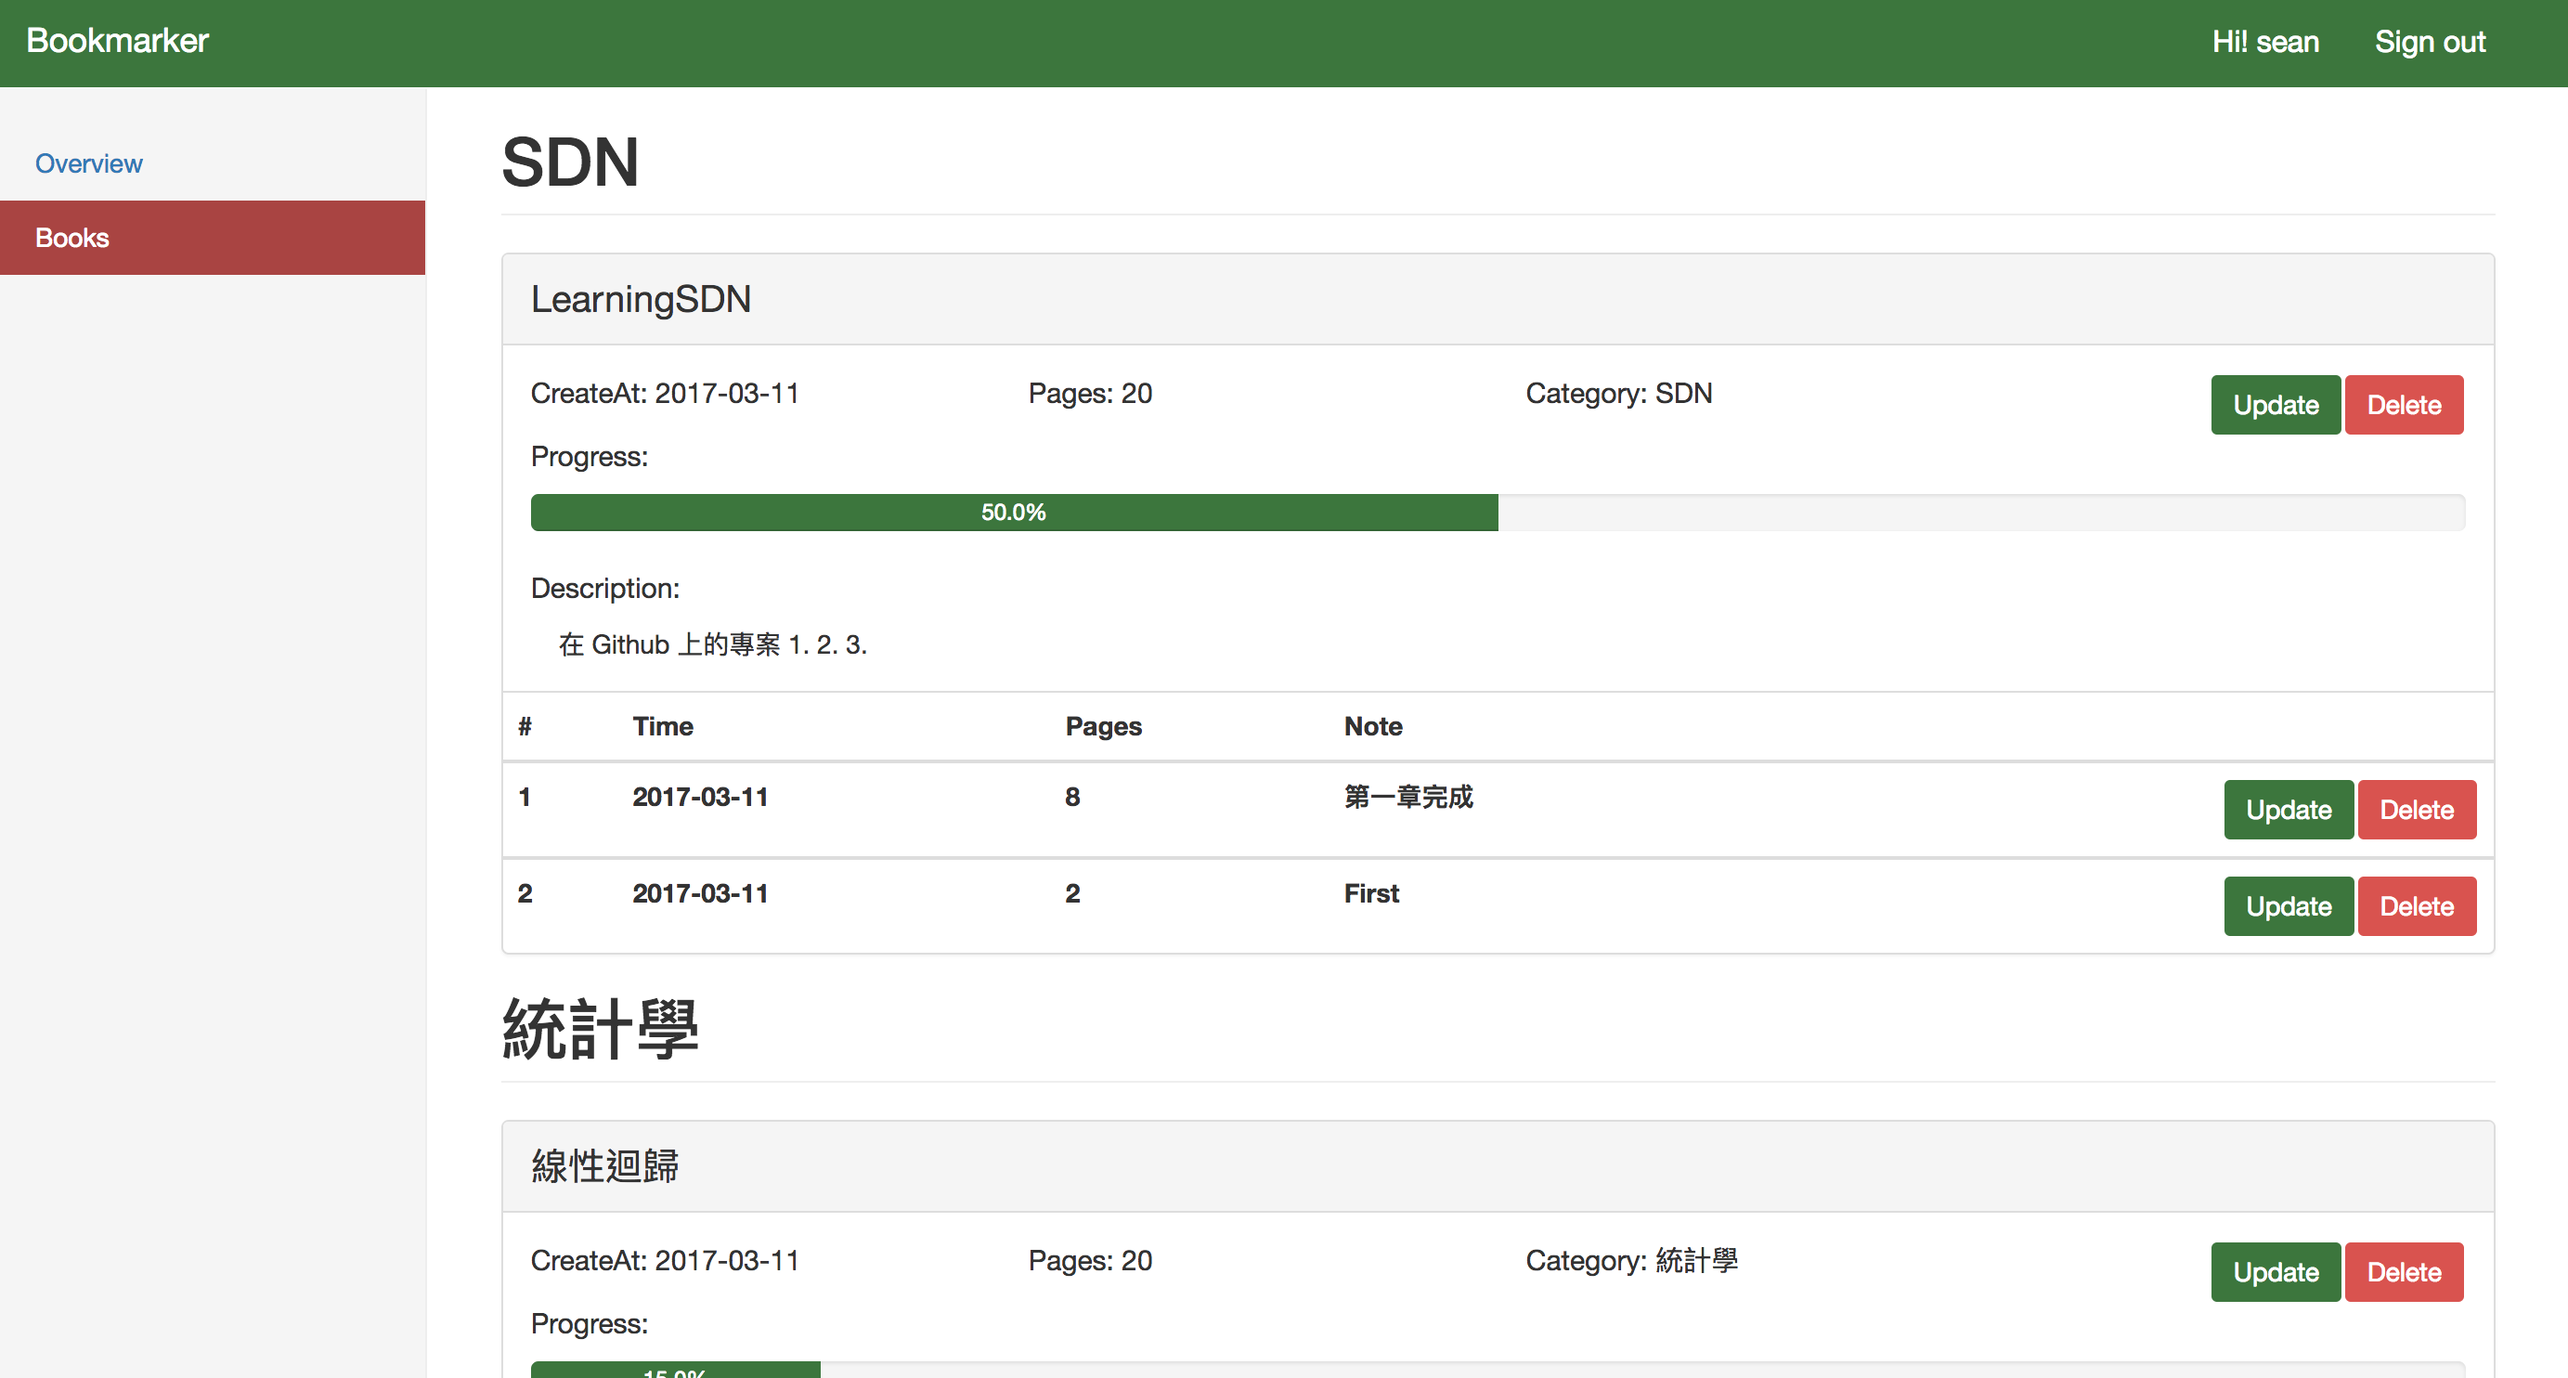
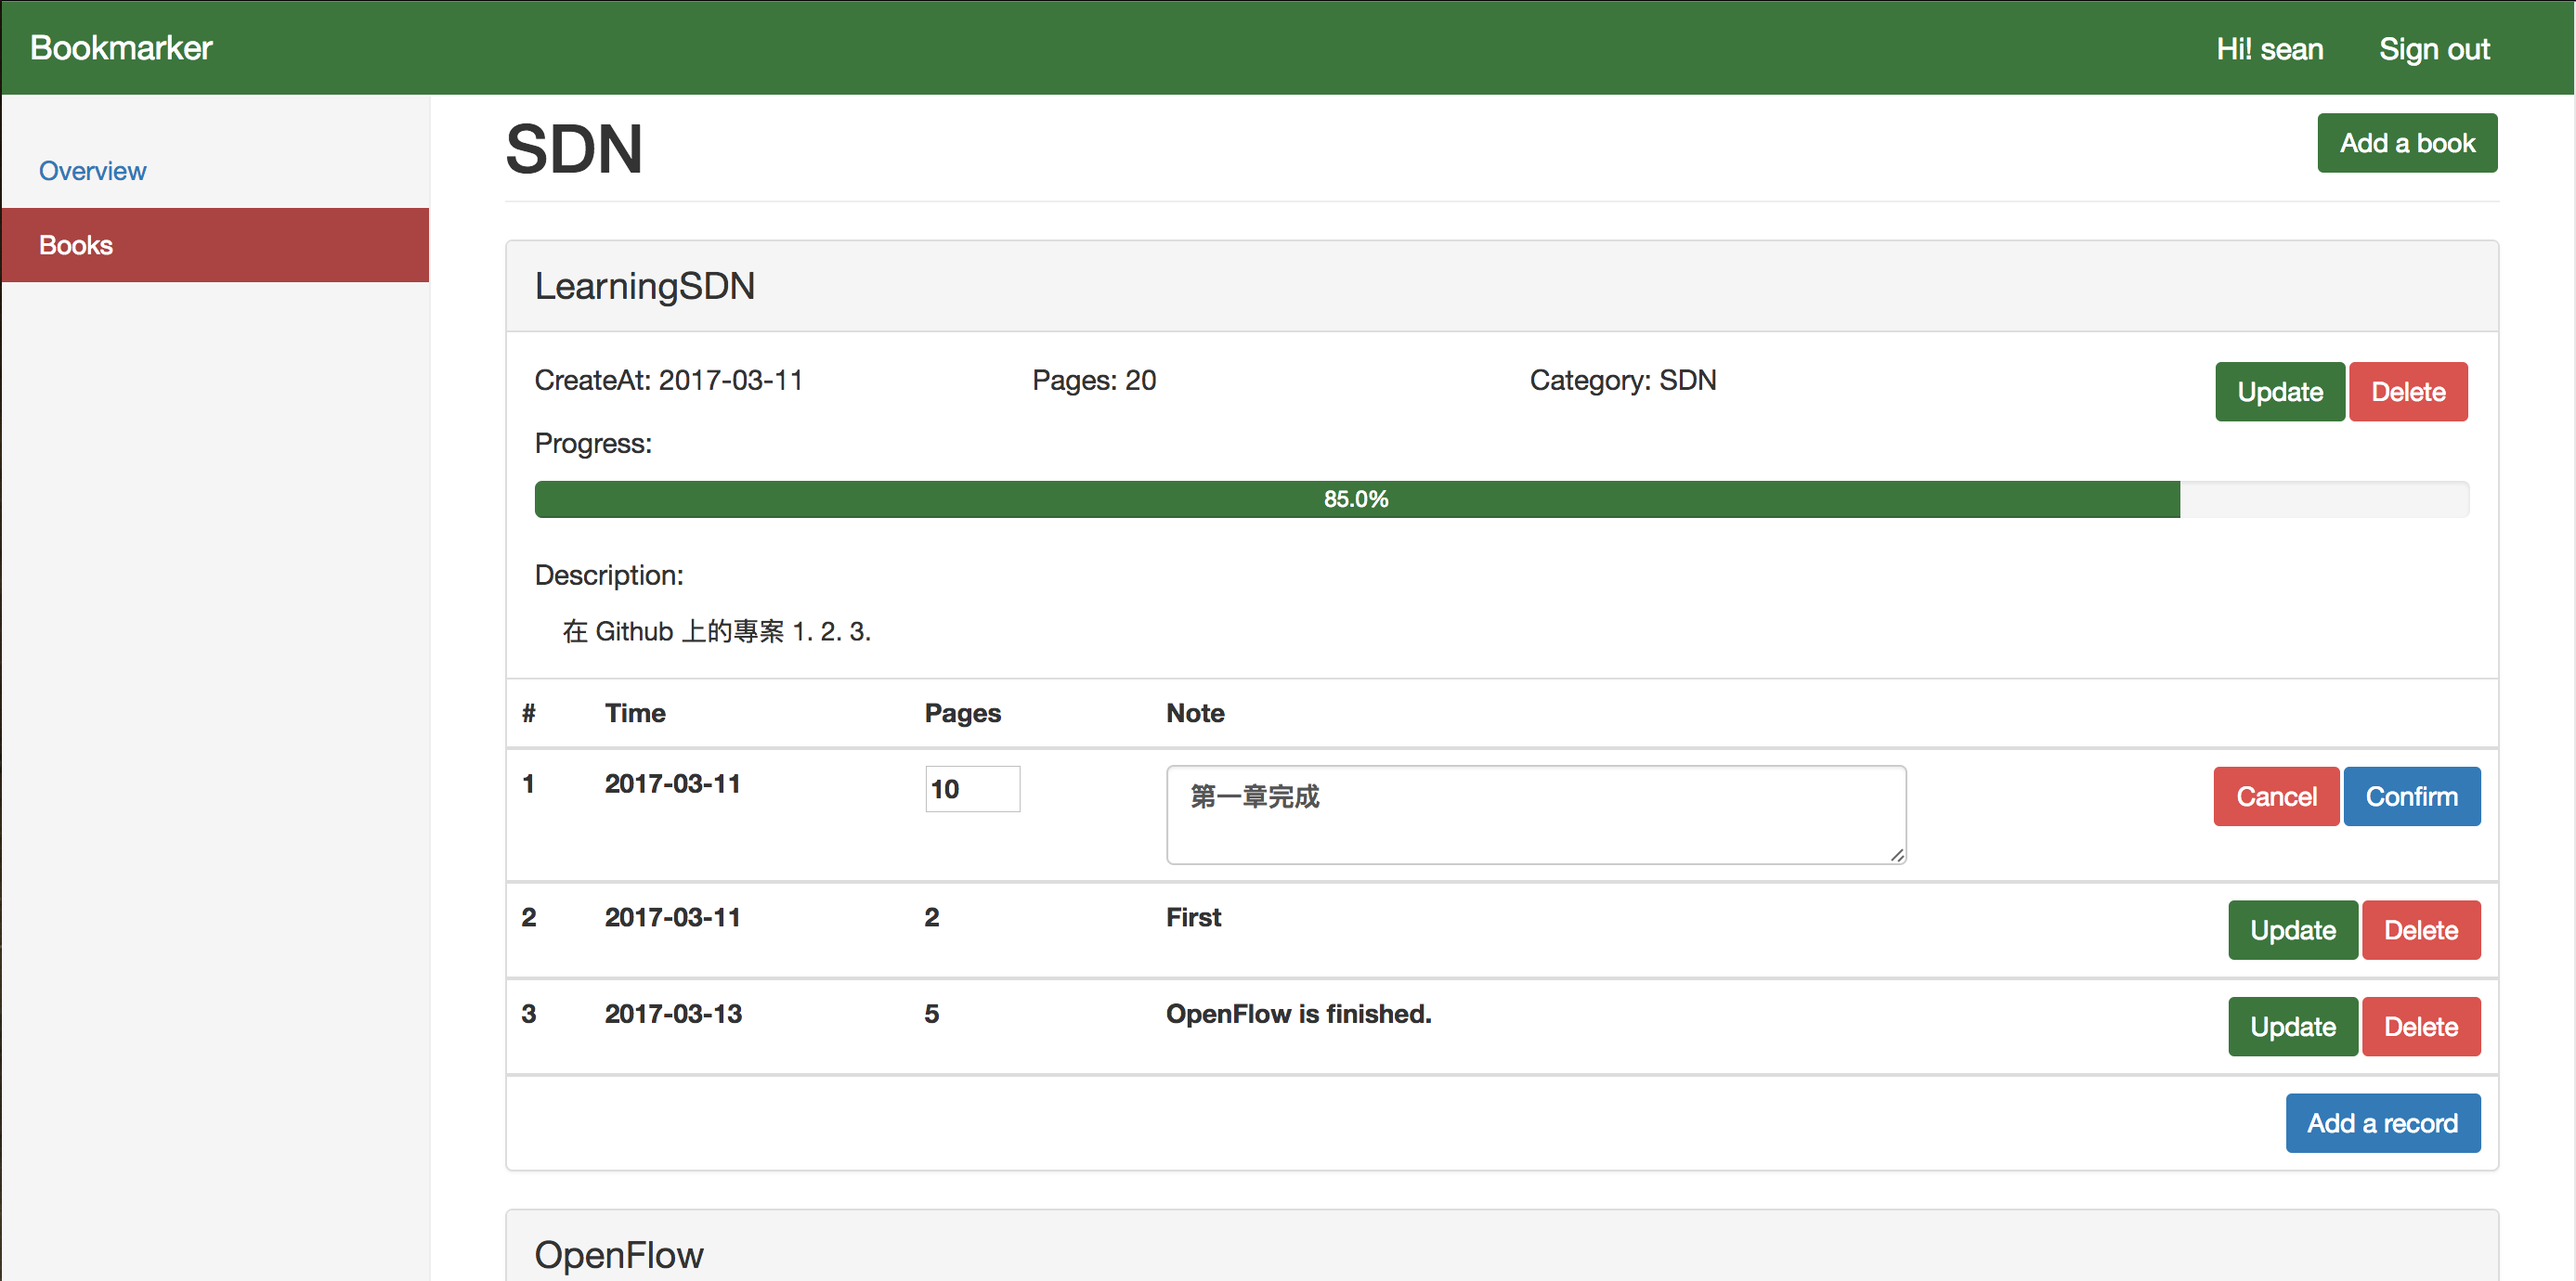
Version: 0.8

diff --git a/README.md b/README.md
@@ -1,19 +1,66 @@
 # Bookmarker
 
-紀錄閱讀進度的專案，並透過網頁的方式呈現。此專案主要是學習取向，學習前、後端分離的 Web service。其中包含一些莫名的堅持，像是：
+紀錄閱讀進度的專案，並透過網頁的方式呈現。此專案主要是學習取向，學習前、後端分離的 Web service。
 
-* ~~不想使用 node.js 做前端~~
+* 前端：Vue、Bootstrap（無使用到 jQuery 的部分）
 
-* 後端就是想使用 golang（gin）
-
-* 前端就是想用一個框架（vue）
-
-所以如果有些不合邏輯的地方也請見諒。另外，學習的大項分別為：
-
-* 前端：vue、Bootstrap（盡可能不使用 jQuery）
-
-* 後端：gin（golang）
+* 後端：gin（Back-end Server）、gorm（ORM）
 * 版本控制：進一步熟悉 git 的分工操作
+
+前端 Vue 的部分，還沒有很完善的架構，只確定運作正常，待往後繼續調整。
+
+## Front-end Server
+
+直接將資料夾 [front-end](https://github.com/YanHaoChen/Bookmarker/tree/master/front-end) 放入 Apache Server 上即可。
+
+>  
+
+## Back-end Server
+
+### 程式
+[server.go](https://github.com/YanHaoChen/Bookmarker/tree/master/back-end)
+
+
+### 需下載的模組
+
+* github.com/gin-gonic/gin
+* github.com/jinzhu/gorm
+* github.com/mattn/go-sqlite3
+
+### 執行
+```shell
+go run server.go
+```
+
+## API
+
+### User
+Name | Method | URL | Params
+--- | --- | --- | ---
+Login | POST | /login | account:string passwd:string
+Auth | POST | /auth |token:string
+Logout | POST | /logout | token:string
+CreateUser | POST | /users/create |Account:string passwd:string name:string email:string
+UserInfo | GET | /users/info?token= | token:string
+UpdateUser | PUT | /users/update | token:string name:string email:string
+UpdateUserPasswd | PUT | /users/updatepasswd | token:string expasswd:string newpasswd:string
+
+### Book
+Name | Method | URL | Params
+--- | --- | --- | ---
+CreateBook | POST | /books/create |token:string name:string category:string pages:int description:string
+BookInfos | GET | /books/infos?token= | token:string
+UpdateBook | PUT | /books/update |token:string bookID:uint name:string category:string pages:int description:string
+DeleteBook | DELETE | /books/delete | token:string bookID:uint
+
+### BookRecord
+Name | Method | URL | Params
+--- | --- | --- | ---
+CreateBookRecord | POST | /bookrecords/create |token:string bookID:uint pages:int note:string
+BookRecordInfos | GET | /bookrecords/infos?token= | token:string
+UpdateBookRecord | PUT | /bookrecords/update |token:string bookID:uint recordID:uint pages:int note:string
+DeleteBookRecord | DELETE | /bookrecords/delete | token:string bookID:uint recordID:uint
+
 
 ## Overview
 ![Overview](https://github.com/YanHaoChen/Bookmarker/blob/master/img/overview.png?raw=true)
@@ -21,7 +68,13 @@
 ## Books
 ![Overview](https://github.com/YanHaoChen/Bookmarker/blob/master/img/books.png?raw=true)
 
-## 目前進度：70%
+## 目前進度：80%
+
+項目 | 進度
+--- | ---
+Overview | 100%
+Books | 100%
+Setting | 0%
 
 
 
